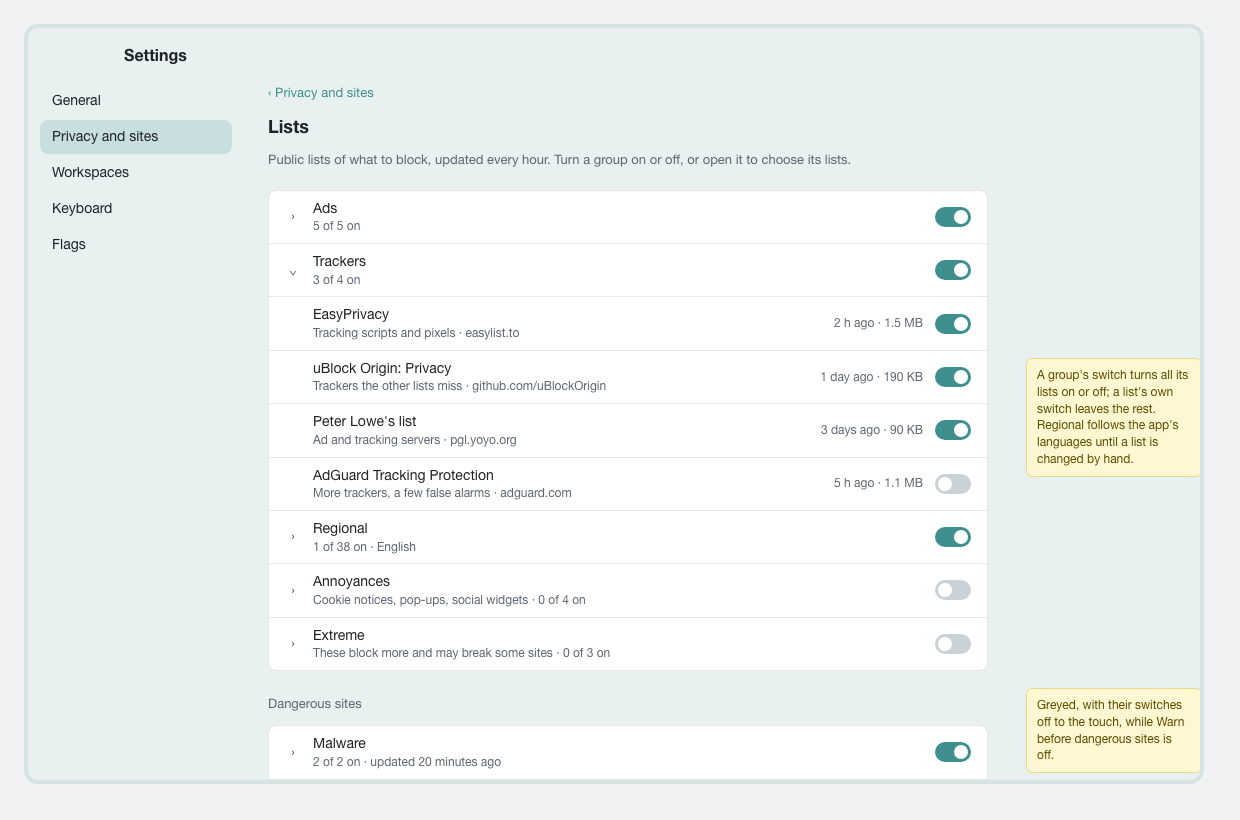
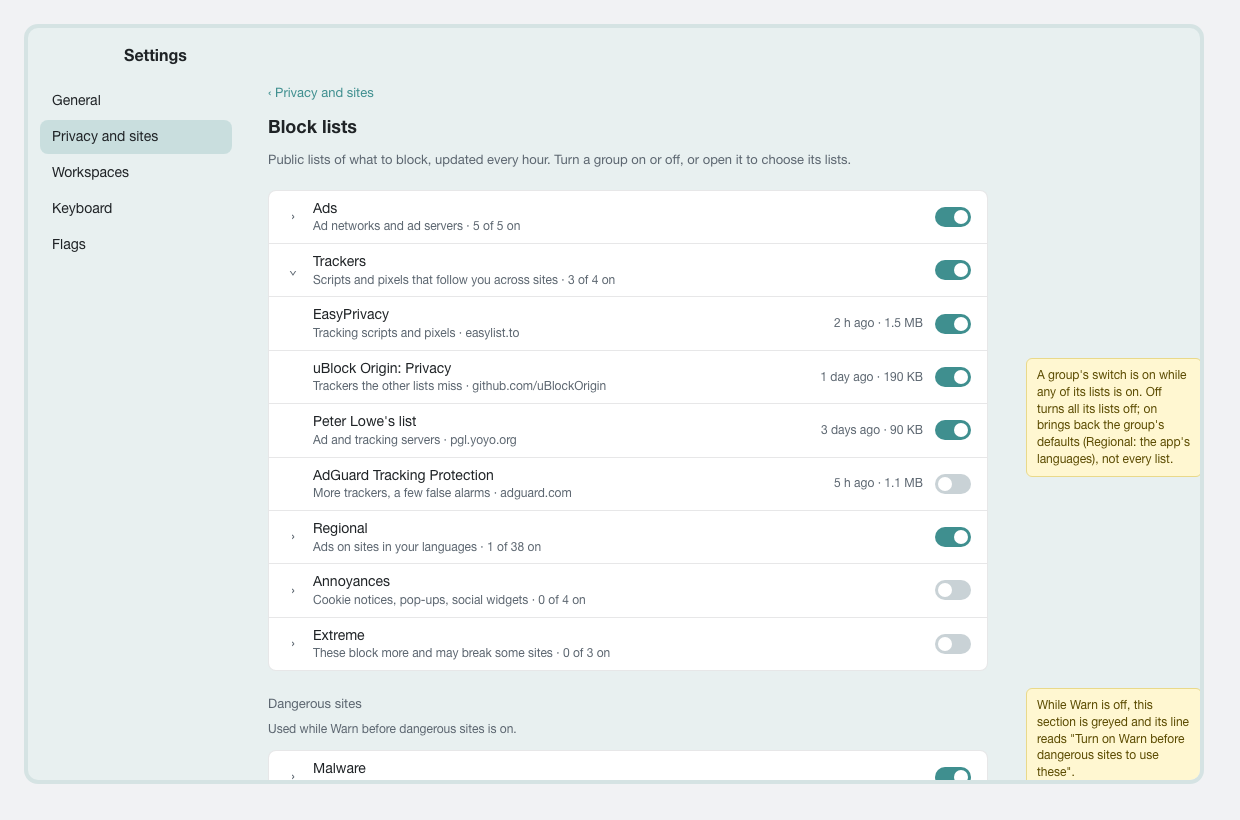
docs/screenshots/blocking: ux's review: Protection as the heading, Block lists, one line per group of what it blocks and its count, the notice's Go back in the accent and Dangerous in the address field's slot, the phone's intro and a divider before each switch

diff --git a/docs/screenshots/blocking/mocks.html b/docs/screenshots/blocking/mocks.html
@@ -29,6 +29,7 @@ body{margin:0;font:14px/1.4 -apple-system,"Helvetica Neue",Arial,sans-serif;colo
 .sw{width:36px;height:20px;border-radius:10px;background:#c9d2d6;position:relative;flex:none}
 .sw::after{content:"";position:absolute;left:3px;top:3px;width:14px;height:14px;border-radius:50%;background:#fff}
 .sw.on{background:var(--accent)}.sw.on::after{left:19px}
+.div{width:1px;height:28px;background:var(--line);flex:none}
 .chev{width:16px;color:var(--muted);flex:none;text-align:center}
 .back{color:var(--accent);font-size:13px;margin-bottom:4px}
 h1{font-size:18px;margin:0 0 4px;font-weight:600}
@@ -53,7 +54,7 @@ h1{font-size:18px;margin:0 0 4px;font-weight:600}
 .notice h2{margin:0;font-size:20px}
 .notice p{margin:0;color:var(--muted)}
 .notice .acts{display:flex;gap:8px;margin-top:8px}
-.notice .btn.p{background:var(--warn)}
+.notice .btn.p{background:var(--accent)}
 .notice .btn.o{border:1px solid var(--line)}
 /* phone */
 .phone{width:390px;height:780px;border:10px solid #1f2326;border-radius:44px;background:var(--bg);overflow:hidden;display:flex;flex-direction:column}
@@ -68,11 +69,11 @@ h1{font-size:18px;margin:0 0 4px;font-weight:600}
 <div class="mock" id="l1"><div class="win"><div class="title">Settings</div><div class="settings">
   <div class="nav"><div>General</div><div class="on">Privacy and sites</div><div>Workspaces</div><div>Keyboard</div><div>Flags</div></div>
   <div class="main"><div class="col">
-    <div class="sec">Blocking</div>
+    <div class="sec">Protection</div>
     <div class="card">
-      <div class="row"><div class="grow">Block ads<div class="sub">Ads and trackers, on every site. Each site can turn it off from its panel.</div></div><div class="sw on"></div></div>
-      <div class="row"><div class="grow">Warn before dangerous sites<div class="sub">Sites known for malware or phishing, checked on this device. Nothing is sent anywhere.</div></div><div class="sw on"></div></div>
-      <div class="row"><div class="grow">Lists<div class="sub">14 of 52 lists on · updated 20 minutes ago</div></div><div class="chev">›</div></div>
+      <div class="row"><div class="grow">Block ads<div class="sub">Ads and trackers, from public lists kept up to date</div></div><div class="sw on"></div></div>
+      <div class="row"><div class="grow">Warn before dangerous sites<div class="sub">Malware and phishing, checked on this device; nothing is sent anywhere</div></div><div class="sw on"></div></div>
+      <div class="row"><div class="grow">Block lists<div class="sub">14 of 52 lists on · updated 20 minutes ago</div></div><div class="chev">›</div></div>
     </div>
     <div class="sec">Sites</div>
     <div class="card"><div class="row"><div class="grow">Site settings</div><div class="chev">›</div></div></div>
@@ -84,28 +85,29 @@ h1{font-size:18px;margin:0 0 4px;font-weight:600}
   <div class="nav"><div>General</div><div class="on">Privacy and sites</div><div>Workspaces</div><div>Keyboard</div><div>Flags</div></div>
   <div class="main"><div class="col">
     <div class="back">‹ Privacy and sites</div>
-    <h1>Lists</h1>
+    <h1>Block lists</h1>
     <p class="lead">Public lists of what to block, updated every hour. Turn a group on or off, or open it to choose its lists.</p>
     <div class="card">
-      <div class="row"><div class="chev">›</div><div class="grow">Ads<div class="sub">5 of 5 on</div></div><div class="sw on"></div></div>
-      <div class="row"><div class="chev">⌄</div><div class="grow">Trackers<div class="sub">3 of 4 on</div></div><div class="sw on"></div></div>
+      <div class="row"><div class="chev">›</div><div class="grow">Ads<div class="sub">Ad networks and ad servers · 5 of 5 on</div></div><div class="sw on"></div></div>
+      <div class="row"><div class="chev">⌄</div><div class="grow">Trackers<div class="sub">Scripts and pixels that follow you across sites · 3 of 4 on</div></div><div class="sw on"></div></div>
       <div class="row in"><div class="grow">EasyPrivacy<div class="sub">Tracking scripts and pixels · easylist.to</div></div><div class="meta">2 h ago · 1.5 MB</div><div class="sw on"></div></div>
       <div class="row in"><div class="grow">uBlock Origin: Privacy<div class="sub">Trackers the other lists miss · github.com/uBlockOrigin</div></div><div class="meta">1 day ago · 190 KB</div><div class="sw on"></div></div>
       <div class="row in"><div class="grow">Peter Lowe's list<div class="sub">Ad and tracking servers · pgl.yoyo.org</div></div><div class="meta">3 days ago · 90 KB</div><div class="sw on"></div></div>
       <div class="row in"><div class="grow">AdGuard Tracking Protection<div class="sub">More trackers, a few false alarms · adguard.com</div></div><div class="meta">5 h ago · 1.1 MB</div><div class="sw"></div></div>
-      <div class="row"><div class="chev">›</div><div class="grow">Regional<div class="sub">1 of 38 on · English</div></div><div class="sw on"></div></div>
+      <div class="row"><div class="chev">›</div><div class="grow">Regional<div class="sub">Ads on sites in your languages · 1 of 38 on</div></div><div class="sw on"></div></div>
       <div class="row"><div class="chev">›</div><div class="grow">Annoyances<div class="sub">Cookie notices, pop-ups, social widgets · 0 of 4 on</div></div><div class="sw"></div></div>
       <div class="row"><div class="chev">›</div><div class="grow">Extreme<div class="sub">These block more and may break some sites · 0 of 3 on</div></div><div class="sw"></div></div>
     </div>
     <div class="sec">Dangerous sites</div>
+    <div class="sub" style="font-size:12px;color:var(--muted);margin:-4px 0 4px">Used while Warn before dangerous sites is on.</div>
     <div class="card">
-      <div class="row"><div class="chev">›</div><div class="grow">Malware<div class="sub">2 of 2 on · updated 20 minutes ago</div></div><div class="sw on"></div></div>
-      <div class="row"><div class="chev">›</div><div class="grow">Phishing<div class="sub">2 of 2 on · updated 20 minutes ago</div></div><div class="sw on"></div></div>
+      <div class="row"><div class="chev">›</div><div class="grow">Malware<div class="sub">Sites that spread harmful software · 2 of 2 on</div></div><div class="sw on"></div></div>
+      <div class="row"><div class="chev">›</div><div class="grow">Phishing<div class="sub">Sites that pretend to be others to get passwords · 2 of 2 on</div></div><div class="sw on"></div></div>
     </div>
   </div></div>
 </div>
-<div class="note" style="left:998px;top:330px;width:176px">A group's switch turns all its lists on or off; a list's own switch leaves the rest. Regional follows the app's languages until a list is changed by hand.</div>
-<div class="note" style="left:998px;top:660px;width:176px">Greyed, with their switches off to the touch, while Warn before dangerous sites is off.</div>
+<div class="note" style="left:998px;top:330px;width:176px">A group's switch is on while any of its lists is on. Off turns all its lists off; on brings back the group's defaults (Regional: the app's languages), not every list.</div>
+<div class="note" style="left:998px;top:660px;width:176px">While Warn is off, this section is greyed and its line reads "Turn on Warn before dangerous sites to use these".</div>
 </div></div>
 
 <!-- l3: the welcome's Protection step -->
@@ -126,7 +128,7 @@ h1{font-size:18px;margin:0 0 4px;font-weight:600}
 <!-- l4: the unsafe-site notice -->
 <div class="mock" id="l4"><div class="win">
   <div class="tabbar"><div style="width:72px;display:flex;gap:8px"><i style="width:12px;height:12px;border-radius:50%;background:#ec6a5e"></i><i style="width:12px;height:12px;border-radius:50%;background:#f4bf4f"></i><i style="width:12px;height:12px;border-radius:50%;background:#61c554"></i></div>
-    <div class="field"><span class="bad">Dangerous</span>login-bank-verify.example</div></div>
+    <div class="field"><span class="bad" style="font-size:12px;font-weight:500;display:inline-flex;gap:4px;align-items:center;padding:2px 6px;border-radius:6px;background:var(--warn-tint)">⚠ Dangerous</span>login-bank-verify.example</div></div>
   <div class="page"><div class="notice" role="alert">
     <div class="ico">!</div>
     <h2>login-bank-verify.example may be trying to steal your information</h2>
@@ -135,23 +137,24 @@ h1{font-size:18px;margin:0 0 4px;font-weight:600}
   </div></div>
 </div></div>
 
-<!-- l5: the Lists page on a phone -->
+<!-- l5: the Block lists page on a phone -->
 <div class="mock" id="l5"><div class="phone">
-  <div class="hdr"><span style="color:var(--accent)">‹</span> Lists</div>
+  <div class="hdr"><span style="color:var(--accent)">‹</span> Block lists</div>
   <div class="body">
+    <p class="lead" style="margin:0 4px 4px">Public lists of what to block, updated every hour. Tap a group to choose its lists.</p>
     <div class="card">
-      <div class="row"><div class="grow">Ads<div class="sub">5 of 5 on</div></div><div class="sw on"></div></div>
-      <div class="row"><div class="grow">Trackers<div class="sub">3 of 4 on</div></div><div class="sw on"></div></div>
-      <div class="row"><div class="grow">Regional<div class="sub">1 of 38 on · English</div></div><div class="sw on"></div></div>
-      <div class="row"><div class="grow">Annoyances<div class="sub">0 of 4 on</div></div><div class="sw"></div></div>
-      <div class="row"><div class="grow">Extreme<div class="sub">May break some sites · 0 of 3 on</div></div><div class="sw"></div></div>
+      <div class="row"><div class="grow">Ads<div class="sub">Ad networks and ad servers · 5 of 5 on</div></div><div class="div"></div><div class="sw on"></div></div>
+      <div class="row"><div class="grow">Trackers<div class="sub">Scripts and pixels that follow you · 3 of 4 on</div></div><div class="div"></div><div class="sw on"></div></div>
+      <div class="row"><div class="grow">Regional<div class="sub">Ads on sites in your languages · 1 of 38 on</div></div><div class="div"></div><div class="sw on"></div></div>
+      <div class="row"><div class="grow">Annoyances<div class="sub">Cookie notices, pop-ups, social widgets · 0 of 4 on</div></div><div class="div"></div><div class="sw"></div></div>
+      <div class="row"><div class="grow">Extreme<div class="sub">These block more and may break some sites · 0 of 3 on</div></div><div class="div"></div><div class="sw"></div></div>
     </div>
     <div class="sec" style="margin:8px 4px 0">Dangerous sites</div>
+    <div class="sub" style="font-size:12px;color:var(--muted);margin:0 4px">Used while Warn before dangerous sites is on.</div>
     <div class="card">
-      <div class="row"><div class="grow">Malware<div class="sub">2 of 2 on</div></div><div class="sw on"></div></div>
-      <div class="row"><div class="grow">Phishing<div class="sub">2 of 2 on</div></div><div class="sw on"></div></div>
+      <div class="row"><div class="grow">Malware<div class="sub">Sites that spread harmful software · 2 of 2 on</div></div><div class="div"></div><div class="sw on"></div></div>
+      <div class="row"><div class="grow">Phishing<div class="sub">Sites that pretend to be others · 2 of 2 on</div></div><div class="div"></div><div class="sw on"></div></div>
     </div>
-    <div class="sub" style="padding:4px;color:var(--muted);font-size:12px">Tap a group for its lists. Updated 20 minutes ago.</div>
   </div>
 </div></div>
 
